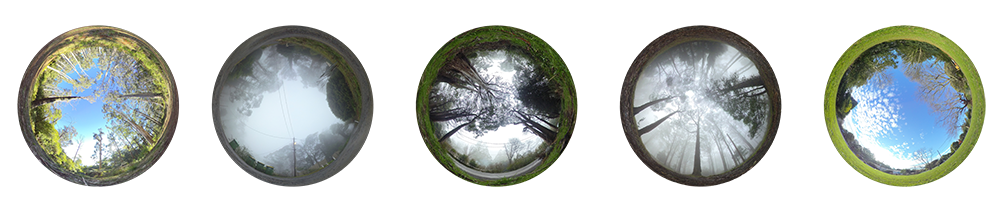
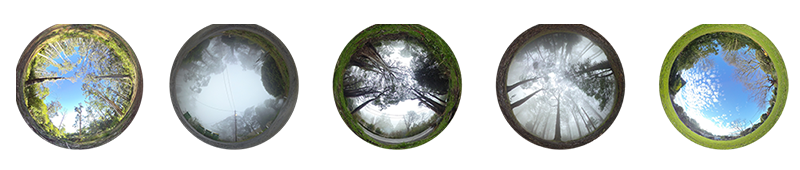
shrink image

diff --git a/index.html b/index.html
@@ -124,7 +124,7 @@ Free for personal and commercial use under the CCA 3.0 license (html5up.net/lice
 						<h2 class="major">Photography</h2>
 						<p>Over the last few years, I have created a few photographs after I gained a little inspiration.</p>
 						<h3>Untitled 'Planet' Series</h3>
-						<img src="/images/content/planetseries/image.png"</img>
+						<img width="100%" src="/images/content/planetseries/image.png"</img>
 					</article>
 
 					<article id="other">
